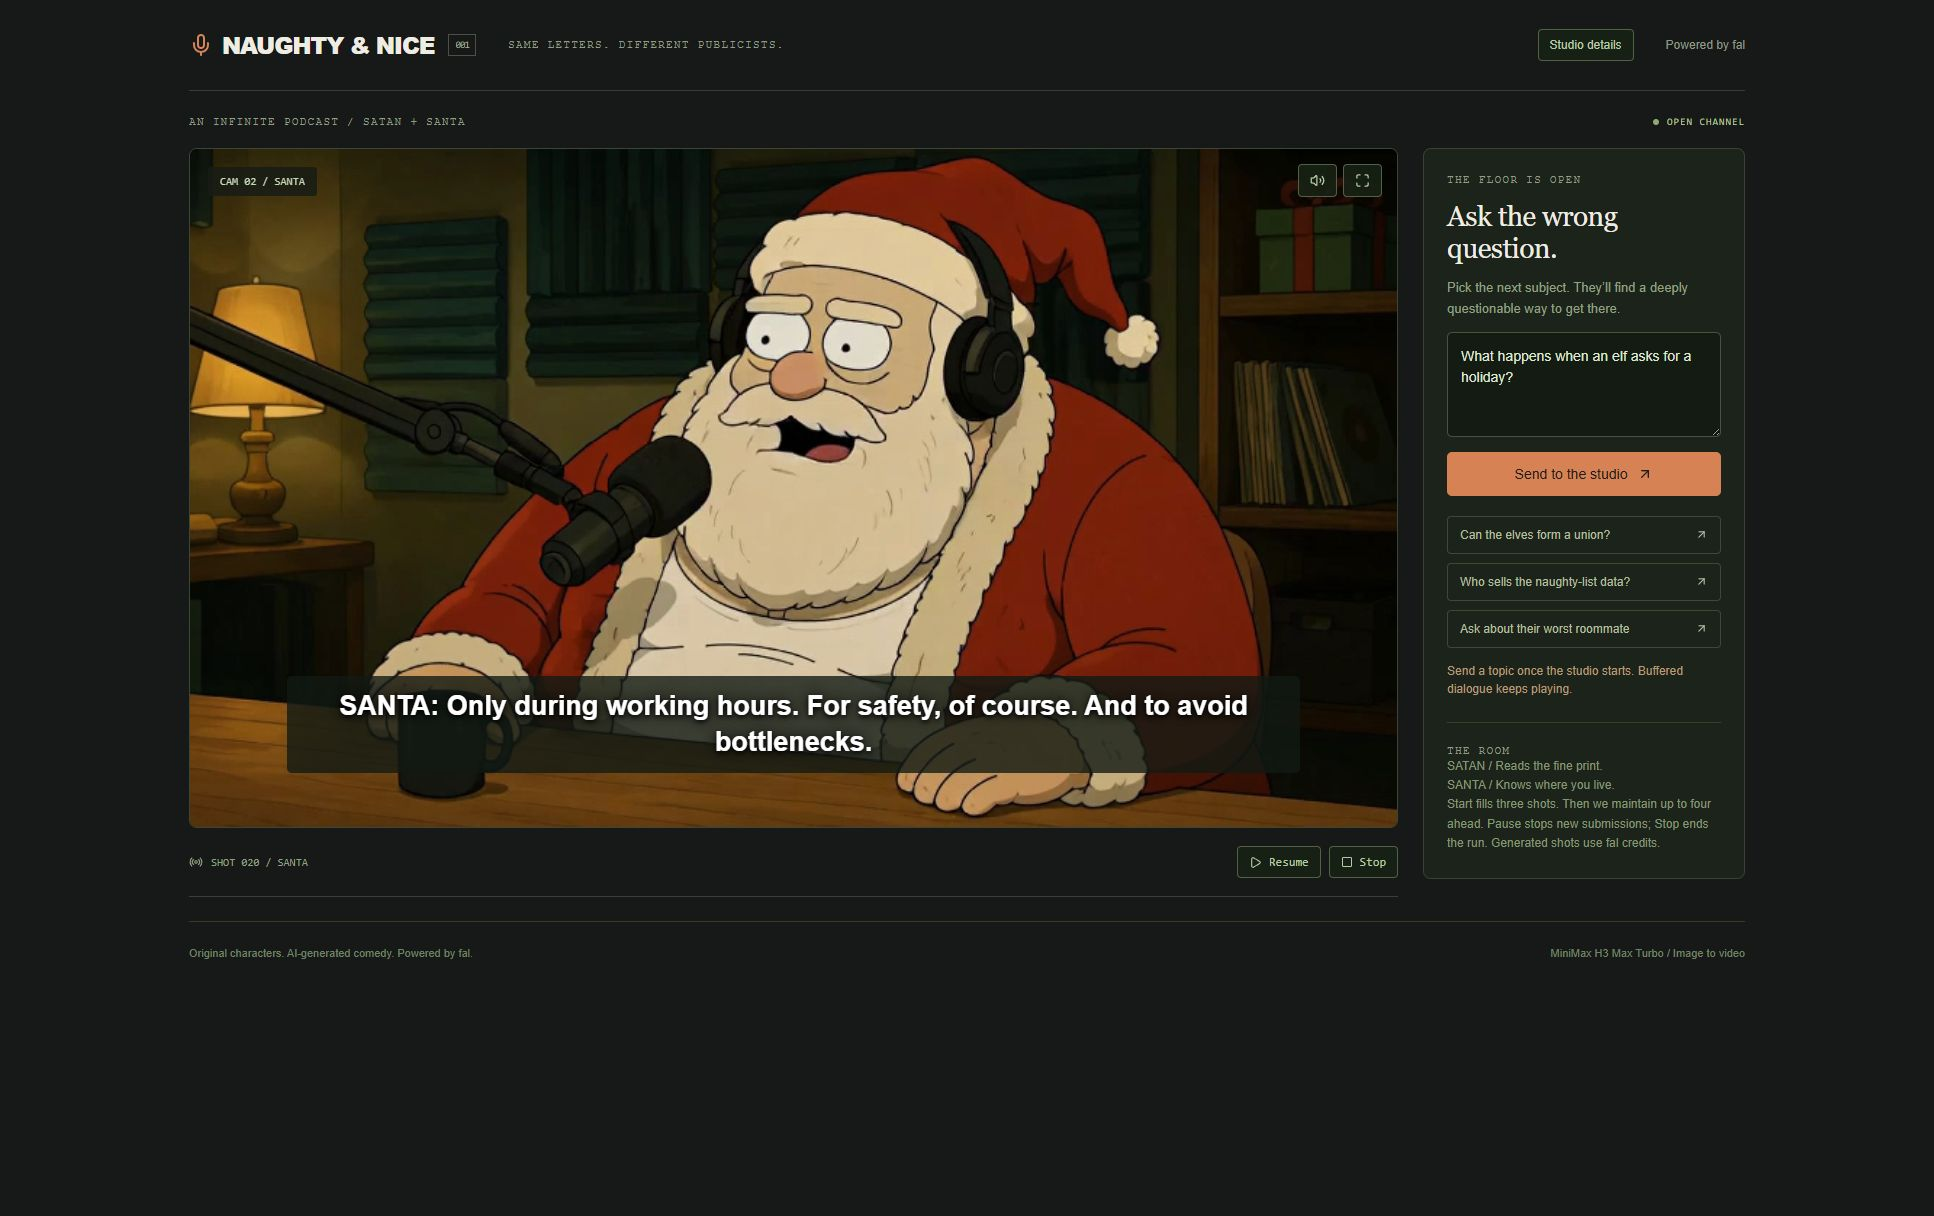
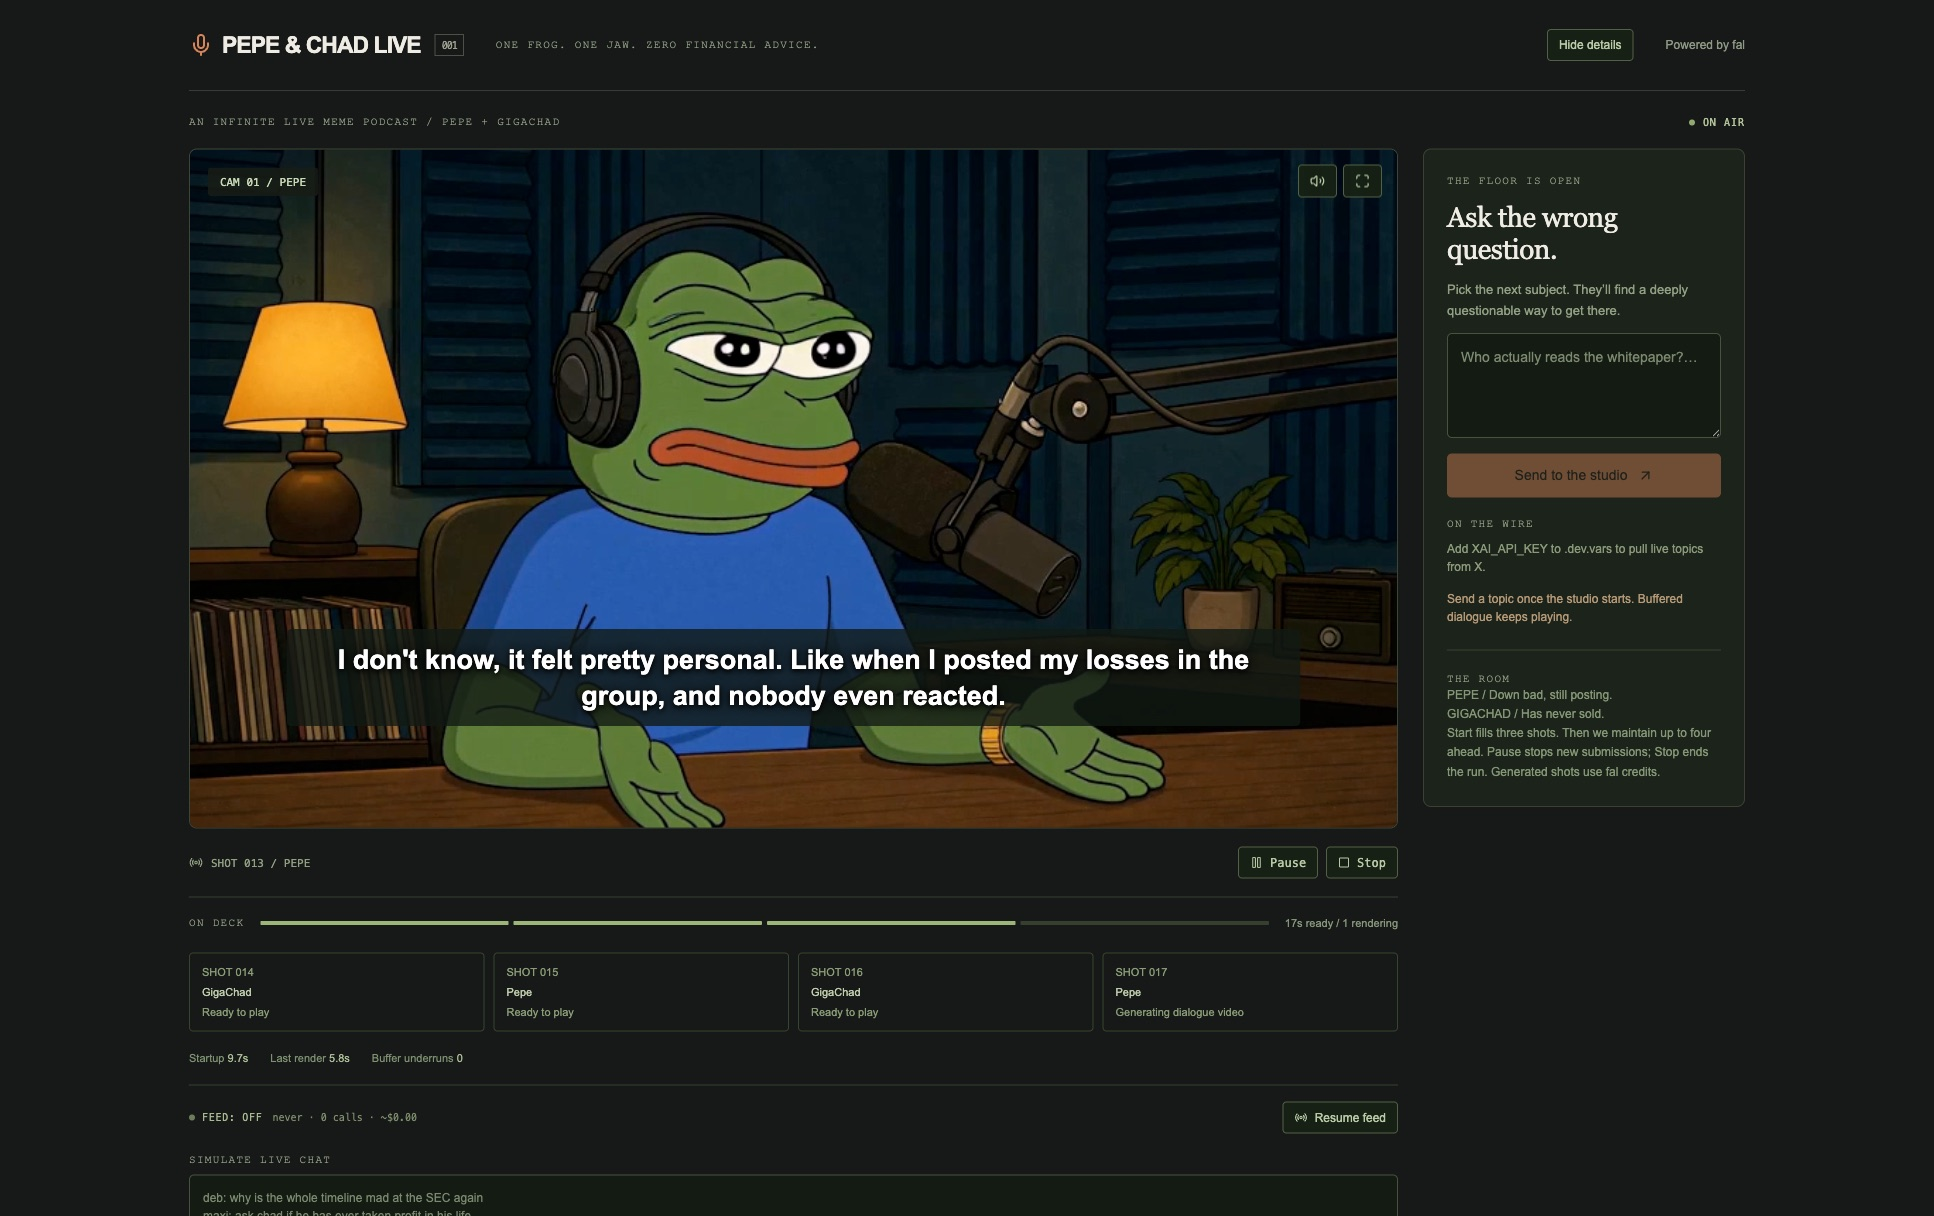
Recapture the README screenshots with the new cast

diff --git a/README.md b/README.md
@@ -15,7 +15,7 @@ Built with [fal](https://fal.ai): MiniMax H3 Max Turbo generates each speaking s
 - Audience prompts steer the next unwritten exchange without cutting off a speaker.
 - Pause, resume, fullscreen, captions, and an optional studio details panel.
 
-![Audience controls and generated dialogue](docs/screenshots/audience.png)
+![The wire, the studio panel and the chat simulator](docs/screenshots/audience.png)
 
 ## Run locally
 
